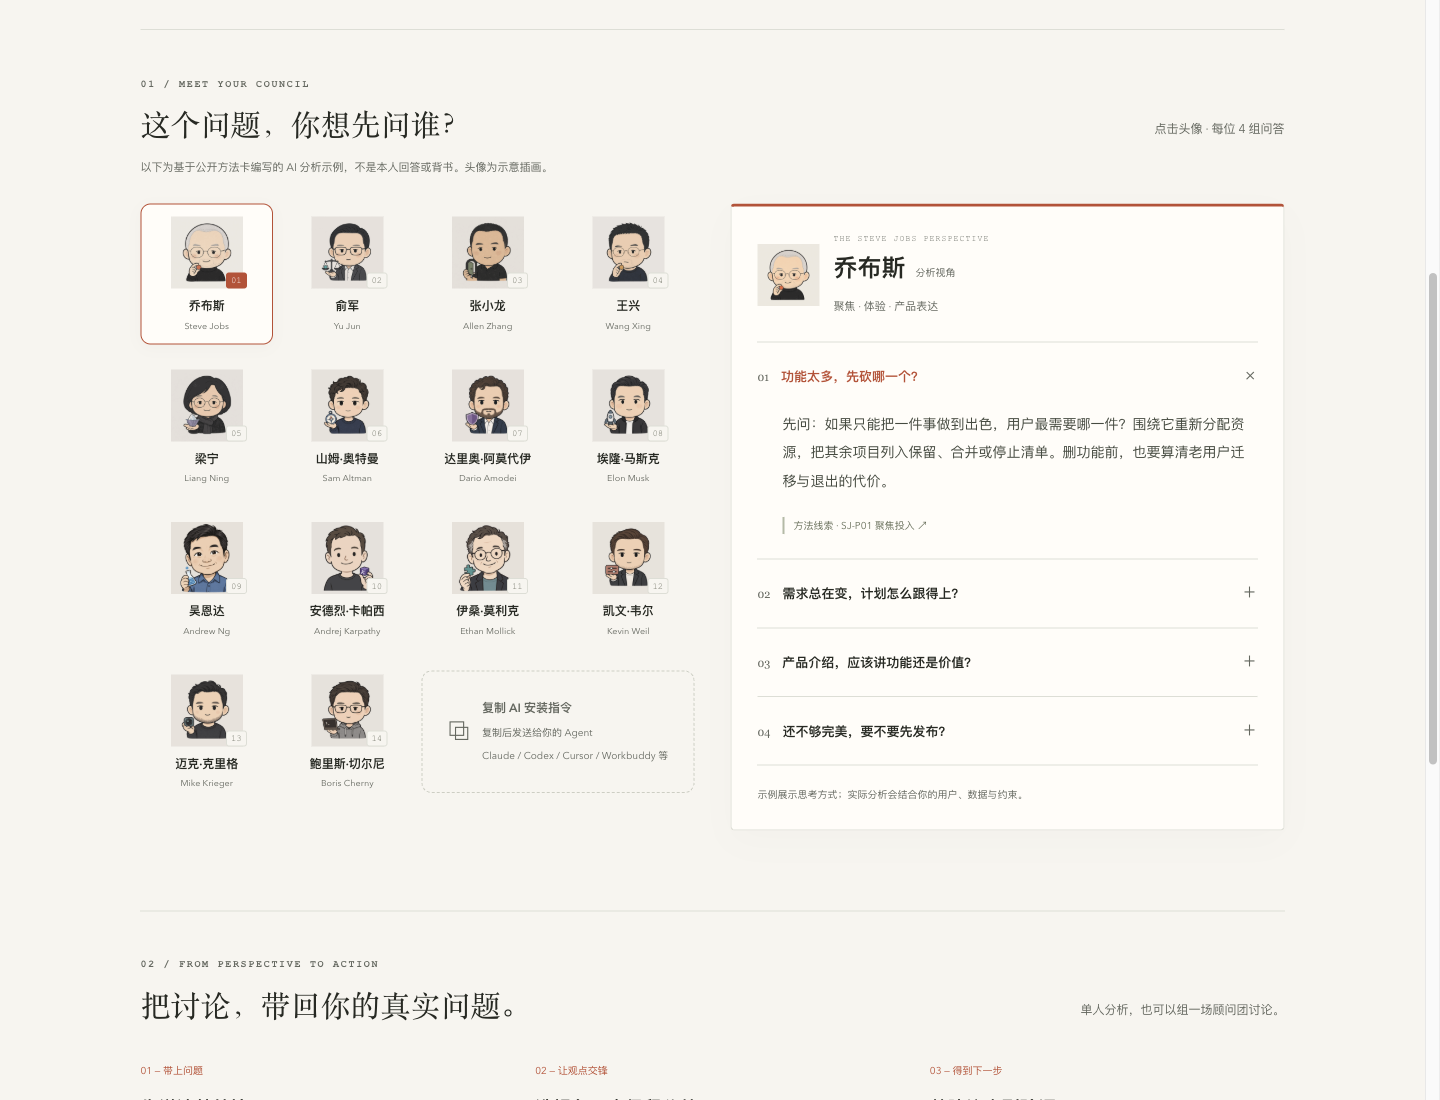
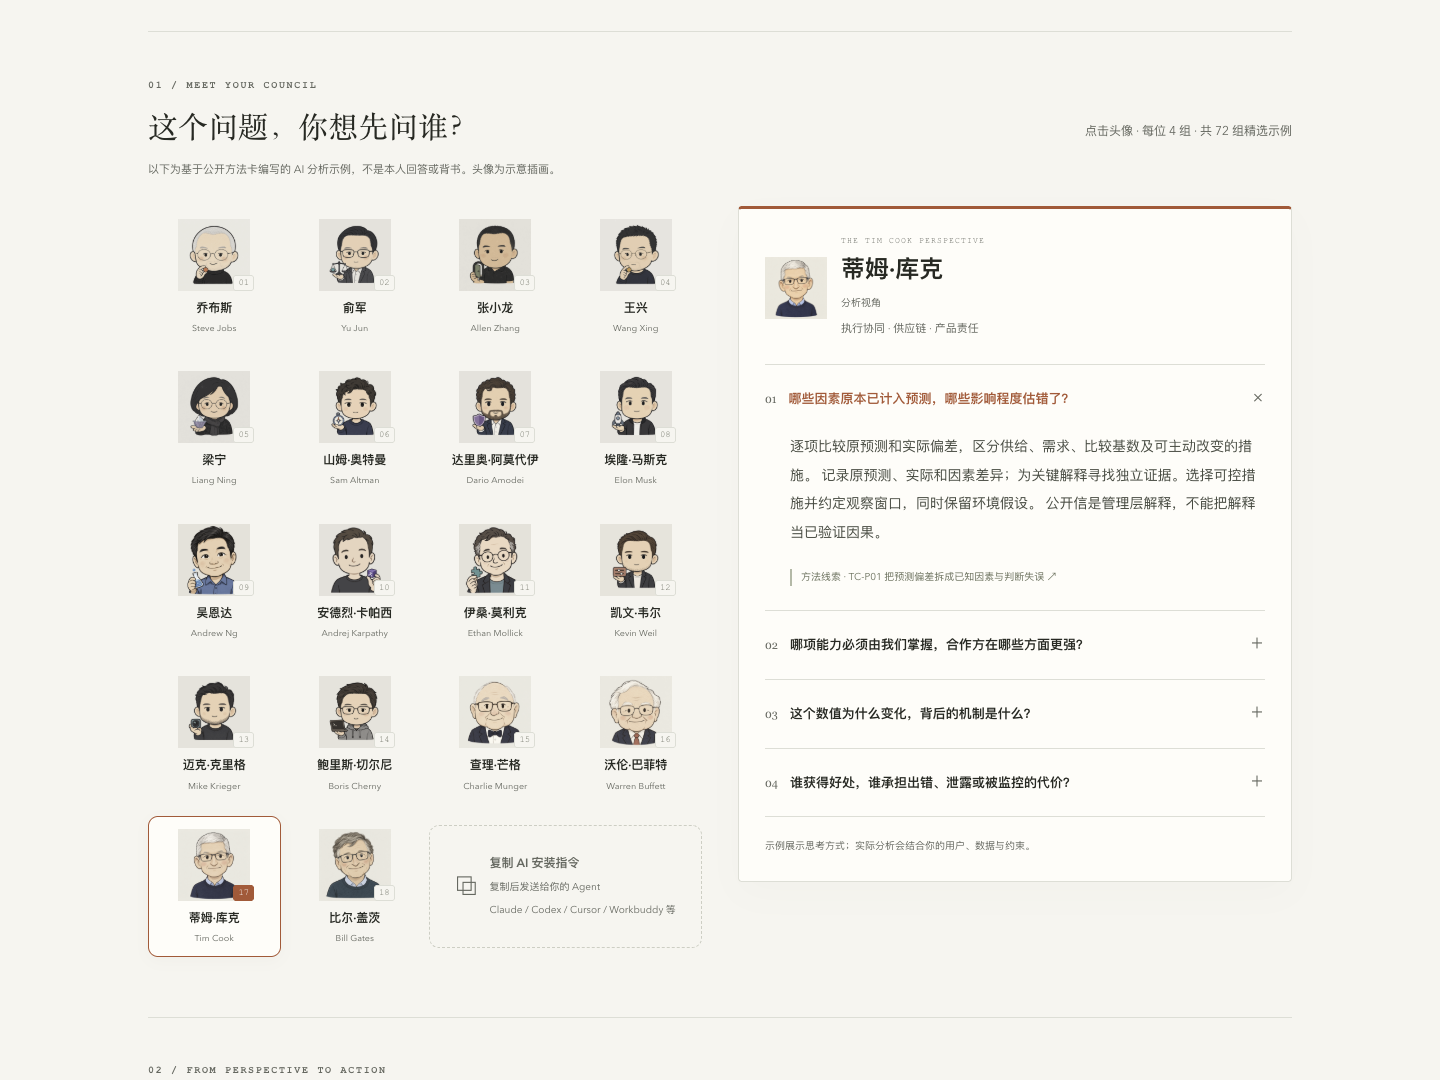
docs: sync showcase screenshots with 18-perspective website

diff --git a/README.en.md b/README.en.md
@@ -20,17 +20,17 @@ These advisors are AI analytical perspectives based on curated methods, not the 
 
 ![From a decision brief to counterevidence and a validation plan](docs/images/decision-flow-en.png)
 
-The images above illustrate the current skill. The existing website screenshots below show the earlier 14-perspective showcase; the website and the 18-perspective skill package are updated separately.
+The images above summarize the skill and its workflow. The live website screenshots below show the updated 18-perspective showcase.
 
-Choose an avatar to explore **four example questions and answers per advisor — 56 in total**. Follow a method link to a flip card: the front names the method; the back explains when to use it, what to ask, what to do, and where it stops applying.
+Choose an avatar to explore **four example questions and answers per advisor — 72 in total, linked to 72 selected method pages**. Follow a method link to a flip card: the front names the method; the back explains when to use it, what to ask, what to do, and where it stops applying.
 
-[![The advisor wall and a sample product discussion](docs/images/council-wall-en.png)](https://luffyliu.com/en/product-advisory-council/#meet)
+[![The 18-perspective advisor wall and a Tim Cook perspective example](docs/images/council-wall-en.png)](https://luffyliu.com/en/product-advisory-council/#meet)
 
 | Front: remember the method | Back: put it to work |
 | --- | --- |
-| [![Focus investment: advisor avatar and method title](docs/images/method-front-en.png)](https://luffyliu.com/en/product-advisory-council/cards/sj-p01/) | [![Method details: conditions, questions, actions and boundaries](docs/images/method-back-en.png)](https://luffyliu.com/en/product-advisory-council/cards/sj-p01/) |
+| [![Forecast factors and judgment errors: Tim Cook perspective and method title](docs/images/method-front-en.png)](https://luffyliu.com/en/product-advisory-council/cards/tc-p01/) | [![Method details: conditions, questions, actions and boundaries](docs/images/method-back-en.png)](https://luffyliu.com/en/product-advisory-council/cards/tc-p01/) |
 
-The website supports Simplified Chinese, Traditional Chinese, English, Japanese, Korean and Spanish, including Q&As, method cards and Agent installation prompts. The screenshots below show the English UI. The showcase uses prewritten AI analysis examples, not live chat or statements by the people represented. This repository provides Chinese and English introductions; the skill's method materials are primarily Chinese.
+The website supports Simplified Chinese, Traditional Chinese, English, Japanese, Korean and Spanish, including Q&As, method cards and Agent installation prompts. The screenshots above show the English UI. The website presents 72 selected methods; the complete skill includes 255 cards. The showcase uses prewritten AI analysis examples, not live chat or statements by the people represented. This repository provides Chinese and English introductions; the skill's method materials are primarily Chinese.
 
 ## Ask your Agent to install it
 

diff --git a/README.md b/README.md
@@ -18,19 +18,19 @@
 
 ![从问题简报到反证和验证计划的讨论流程](docs/images/decision-flow.png)
 
-下面保留的是既有网站演示截图（14视角展示版）；它与本次18视角技能包分别更新。新图为技能功能示意，不是已上线网站截图。
+上面两张图概览技能与讨论流程；下面是已同步到 18 个视角的网站实拍截图。
 
 **[打开产品介绍与互动演示 →](https://luffyliu.com/product-advisory-council/)**
 
-点击专家头像，看看不同方法如何分析一个具体问题。每位顾问都有 **4 组示例问答**，共 **56 组**；点击回答下的「方法线索」，进入可翻转的方法卡片，查看适用条件、思考问题、行动建议与方法边界。
+点击专家头像，看看不同方法如何分析一个具体问题。每位顾问都有 **4 组示例问答**，共 **72 组**，对应 **72 张精选方法卡页面**；点击回答下的「方法线索」，进入可翻转的方法卡片，查看适用条件、思考问题、行动建议与方法边界。
 
-[![产品顾问团：14 位顾问头像墙与示例问答](docs/images/council-wall.png)](https://luffyliu.com/product-advisory-council/#meet)
+[![产品顾问团：18 位顾问头像墙与库克视角示例问答](docs/images/council-wall.png)](https://luffyliu.com/product-advisory-council/#meet)
 
 | 卡片正面：记住一个方法 | 翻到背面：知道怎么使用 |
 | --- | --- |
-| [![聚焦投入方法卡正面：头像、顾问名字与方法名称](docs/images/method-front.png)](https://luffyliu.com/product-advisory-council/cards/sj-p01/) | [![聚焦投入方法卡背面：适用条件、问题、行动与边界](docs/images/method-back.png)](https://luffyliu.com/product-advisory-council/cards/sj-p01/) |
+| [![预测偏差方法卡正面：库克视角、头像与方法名称](docs/images/method-front.png)](https://luffyliu.com/product-advisory-council/cards/tc-p01/) | [![聚焦投入方法卡背面：适用条件、问题、行动与边界](docs/images/method-back.png)](https://luffyliu.com/product-advisory-council/cards/tc-p01/) |
 
-网页中的问答是预先编写的 AI 分析示例，不是实时聊天或本人回答。网页支持简体中文、繁體中文、English、日本語、한국어和 Español，涵盖问答、方法卡与 Agent 安装指令；本仓库提供中英文介绍。
+网站精选展示 72 张卡，完整安装包包含 255 张卡。网页中的问答是预先编写的 AI 分析示例，不是实时聊天或本人回答。网页支持简体中文、繁體中文、English、日本語、한국어和 Español，涵盖问答、方法卡与 Agent 安装指令；本仓库提供中英文介绍。
 
 ## 复制给你的 Agent，让它帮你安装
 

diff --git a/docs/images/README.md b/docs/images/README.md
@@ -10,4 +10,9 @@ The matching SVG files are editable sources. Portraits are embedded in the overv
 - Workflow: 1440 × 570 px.
 - English versions use the `-en` suffix.
 
-The existing `council-wall`, `method-front`, and `method-back` images (including `-en`) are retained screenshots from the separate interactive website. They are not a claim that the website has already been updated to match this skill release.
+`council-wall`, `method-front`, and `method-back` (including `-en`) are actual screenshots of the updated live website, captured on 2026-09-24. The wall shows 18 perspectives; the example and flip card use TC-P01 (forecast factors and judgment errors). The website has 72 example Q&As and selected method pages per language; the complete skill has 255 method cards.
+
+The examples are prewritten AI analyses, not live discussions or statements by the people represented. Screenshot pages:
+
+- Chinese: https://luffyliu.com/product-advisory-council/#meet and https://luffyliu.com/product-advisory-council/cards/tc-p01/
+- English: https://luffyliu.com/en/product-advisory-council/#meet and https://luffyliu.com/en/product-advisory-council/cards/tc-p01/
